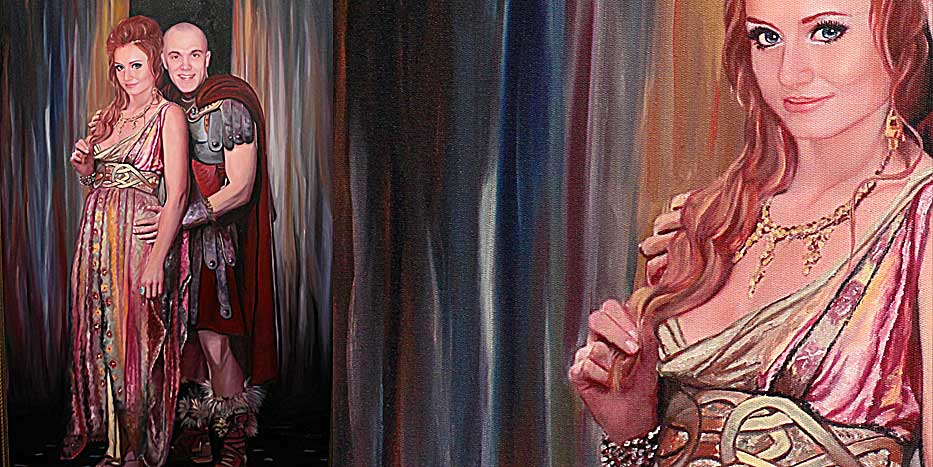
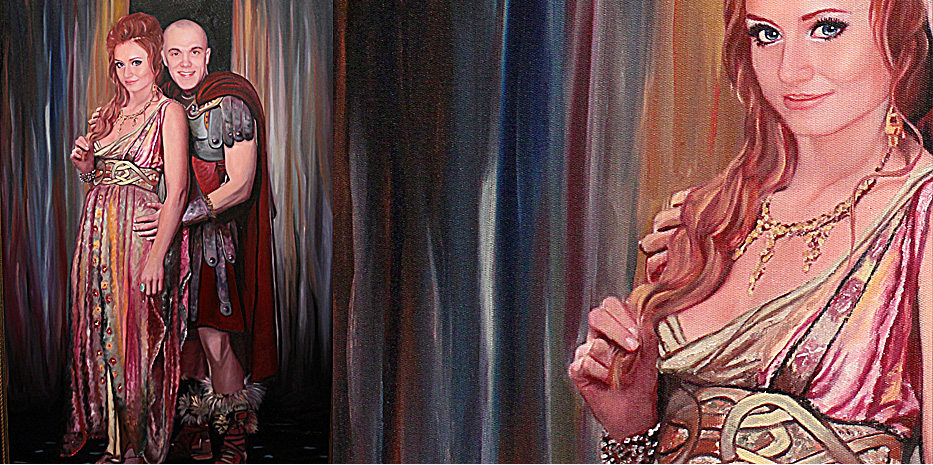
portrethit

diff --git a/wowportret/templates/wowportret/maslo.html b/wowportret/templates/wowportret/maslo.html
@@ -1,39 +1,31 @@
 {% extends 'wowportret/base.html' %}
 {% load staticfiles %}
 {% block content %}
-        <!-- Full Width Image Header with Logo -->
-    <!-- Image backgrounds are set within the full-width-pics.css file. -->
-<!--     <header class="image-bg-fluid-height">
-        <img class="img-responsive img-center" src="{% static 'img/bg/1bg.jpg' %}" alt="">
-    </header> -->
 
-    <!-- Fixed Height Image Aside -->
-    <!-- Image backgrounds are set within the full-width-pics.css file. -->
-    <!-- <aside class="image-bg-fixed-height"></aside> -->
 
-        <div class="container white">
+        <div class="container-fluid white">
         <div class="row">
-            <div class="header" style="background: url({% static 'img/content/maslo/2bg.jpg' %}) no-repeat; min-height: 1000px; ">
-                    <div class="col-xs-12 col-md-8 col-lg-6 col-lg-offset-6 col-md-offset-4">
+            <div class="header" style="background: url({% static 'img/content/maslo/bg.jpg' %}) repeat">
+                <div class="col-md-6 hidden-sm-down">
+                    <img class="sakura" src="{% static 'img/content/maslo/sakura.png' %}" alt="">
+                    <img class="pen" src="{% static 'img/content/maslo/pen.png' %}" alt="">
+                    <img class="foto-maslo" src="{% static 'img/content/maslo/photo.png' %}" alt="">
+                </div>
+                <div class="col-sm-12 col-md-6 text-xs-center">
+                    <!-- <div class="col-xs-12 col-md-8 col-lg-6 col-lg-offset-6 col-md-offset-4"> -->
                         <h1 class="art"><span class="red">Пропись маслом <br /> на холсте</span> </h1>
-                    </div>
-                    <div class="col-xs-12 col-md-7 col-lg-6">
-                        <h2 style="margin-top: 650px; text-align: center;"> <strong> Пропись маслом,техника <br /> «Жекле» </strong> </h2>
-                    </div>
+                    <!-- </div> -->
+                    <!-- <div class="col-xs-12 col-md-7 col-lg-6"> -->
+                        <!-- <h2 style="margin-top: 650px; text-align: center;"> <strong> Пропись маслом,техника <br /> «Жекле» </strong> </h2> -->
+                    <!-- </div> -->
+                </div>
+                <div class="col-md-offset-4 col-md-6 hidden-sm-down">
+                    <img class="maslo-port rt-left" src="{% static 'img/content/maslo/port.jpg' %}" alt="">
+                </div>
+
             </div>
-        <!-- set as background -->
-        <!-- add title + span -->
-        <!-- <aside class="image-bg-fixed-height"></aside> -->
-            <!-- <div class="col-xs-12 col-xs-offset-6"> -->
-                <!-- <h1><span class="orange">Пропись маслом <br /> на холсте</span> </h1> -->
-            <!-- </div> -->
-            <!-- <img class="img-responsive img-full-width" src="{% static 'img/content/maslo/1bg.jpg' %}" alt=""> -->
         </div>
-<!--         <div class="row">
-            <div class="col-xs-6">
-                <h2> <strong> Пропись маслом,техника <br /> «Жекле» </strong> </h2>
-            </div>
-        </div> -->
+        <div class="container white">
         <div class="row">
             <div class="col-sm-12 col-md-12 col-lg-6 text-xs-center">
                 <p class="text-back">
@@ -45,7 +37,7 @@
 
             </p>
             </div>
-            <div class="col-xs-6 col-lg-6 hidden-md-down" style="background: url({% static 'img/content/maslo/grandpa.jpg' %}) no-repeat; min-height: 547px">
+            <div class="col-xs-6 col-lg-6 hidden-md-down" style="background: url({% static 'img/content/maslo/grandpa.jpg' %}) no-repeat; min-height: 547px; position: inherit;">
                 <!-- <img class="img-responsive img-full-width" src="{% static 'img/content/maslo/grandpa.jpg' %}" alt=""> -->
             </div>
         </div>
@@ -69,14 +61,7 @@
             </div>
 
         </div>
-<!--         <div class="row mt">
-            <div class="col-xs-12">
-                <p class="text-xs-center">Еще одно из востребованных стилей </br>
-                                                                    является - "цифровой портрет"   </br>
-                                                                    Художник-дизайнер, по Вашей фотографии рисует портерт на компьюетере при </br>
-                                                                    <button>Заказать</button> </p>
-            </div>
-        </div> -->
+
         <div class="row mt">
             <div class="col-xs-12 text-xs-center mt">
                 <p class="text-back"> <strong>Пример подарка на годовщину свадьбы.  <br />

diff --git a/wowportret/static/css/full-width-pics.css b/wowportret/static/css/full-width-pics.css
@@ -254,12 +254,58 @@ footer {
     left: 0px;
     top: 110px;
 }
+
+.classic {
+    min-height: 995px;
+    background: url('../img/content/classic/left_bg.jpg'), url('../img/content/classic/bg.jpg');
+    background-position: left top, left top;
+    background-repeat: no-repeat, repeat-x;
+}
+
+.classic-port {
+    max-width: 100%;
+    position: absolute;
+    left: 68%;
+    top: 90px;
+}
+
+.sakura {
+    position: absolute;
+}
+.pen {
+    position: absolute;
+    top: 311px;
+}
+
+.maslo-port {
+    position: relative;
+    top:;
+}
+.foto-maslo {
+    position: absolute;
+    top: 497px;
+    left: 0px;
+
+}
 @media(max-width:992px) {
     .port {
         position: relative;
         top: 0px;
         width: 480px;
         margin-top: 32px;
+    }
+
+    .classic-port {
+        max-width: 100%;
+        position: absolute;
+        left: 278px;
+        top: 95px;
+    }
+
+    .maslo-port {
+        max-width: 100%;
+        top: 60px;
+        left: 50px;
     }
 
     .art-girl {
@@ -280,6 +326,11 @@ footer {
         padding-bottom: 25px;
     }
 
+    .classic {
+        background: url('../img/content/classic/bg.jpg');
+        background-position: left top;
+        background-repeat: repeat-x;
+    }
     .section-heading {
         font-size: 2em;
     }

diff --git a/wowportret/templates/wowportret/classic.html b/wowportret/templates/wowportret/classic.html
@@ -2,16 +2,19 @@
 {% load staticfiles %}
 {% block content %}
 
-        <div class="container-fluid white">
+        <div class="container-fluid white mb">
         <div class="row">
-        <div class="header" style="background: url({% static 'img/content/classic/1bg.jpg' %}) no-repeat; min-height: 1000px">
-                <div class="col-xs-12 col-sm-6 col-sm-offset-6">
+        <div class="header classic">
+            <div class="col-xs-12 col-md-6 col-md-offset-6">
                 <h1 class="art"><span class="blue">Классический портрет с заменой фона</span> </h1>
-                </div>
+            </div>
+            <div class="col-md-7 col-lg-6 hidden-sm-down">
+                <img class="mt rt-right classic-port" src="{% static 'img/content/classic/port.jpg' %}" alt="">
+            </div>
 
         </div>
         </div>
-        <div class="container white">
+        <div class="container white mt">
 <!--         <div class="row">
             <div class="col-xs-12 col-xs-offset-6">
                 <h1><span class="blue">Классический портрет <br /> с заменой фона</span> </h1>

diff --git a/wowportret/templates/wowportret/index.html b/wowportret/templates/wowportret/index.html
@@ -5,10 +5,10 @@
         <div class="row">
             <div class="header" style="background: url({% static 'img/content/main/wall.jpg' %}) repeat; min-height: 600px; ">
 
-                    <div class="col-md-6 hidden-sm-down">
-                        <img class="mt" src="{% static 'img/content/main/test.png' %}" alt="">
+                    <div class="col-md-5 hidden-sm-down">
+                        <img class="mt" src="{% static 'img/content/main/super_guy.png' %}" alt="">
                     </div>
-                    <div class="col-xs-12 col-sm-12 col-md-6">
+                    <div class="col-xs-12 col-sm-12 col-md-7">
                         <div class="main">
                         <h1 style="margin-top: 125px">Лучший подарок, на любой праздник - Картина</h1>
                         </div>

diff --git a/wowportret/templates/wowportret/base.html b/wowportret/templates/wowportret/base.html
@@ -29,10 +29,10 @@
     </head>
     <body>
         <nav class="navbar navbar-fixed-top navbar-light bg-faded">
-          <button class="navbar-toggler hidden-sm-up" type="button" data-toggle="collapse" data-target="#exCollapsingNavbar2">
+          <button class="navbar-toggler hidden-md-up" type="button" data-toggle="collapse" data-target="#exCollapsingNavbar2">
             &#9776;
           </button>
-          <div class="collapse navbar-toggleable-xs" id="exCollapsingNavbar2">
+          <div class="collapse navbar-toggleable-sm" id="exCollapsingNavbar2">
             <a class="navbar-brand" href="/glavnaya/">Wowportret.ru</a>
             <ul class="nav navbar-nav">
               <li class="nav-item active">

diff --git a/wowportret/templates/wowportret/portret.html b/wowportret/templates/wowportret/portret.html
@@ -11,7 +11,7 @@
     <!-- Image backgrounds are set within the full-width-pics.css file. -->
     <!-- <aside class="image-bg-fixed-height"></aside> -->
 
-        <div class="container-fluid white mt" style="background: url({% static 'img/content/portret/test.jpg' %}) repeat;">
+        <div class="container-fluid white mt" style="background: url({% static 'img/content/portret/bg.jpg' %}) repeat;">
         <div class="header">
                 <div class="row">
                     <div class="col-xs-10 col-xs-offset-1 col-sm-8 col-md-6 col-sm-offset-2 col-md-offset-3 col-xl-4 col-xl-offset-3">

diff --git a/wowportret/templates/wowportret/pmaslo.html b/wowportret/templates/wowportret/pmaslo.html
@@ -5,7 +5,7 @@
 
         <div class="container-fluid white">
         <div class="row">
-            <div class="header" style="background: url({% static 'img/content/pmaslo/test.jpg' %});">
+            <div class="header" style="background: url({% static 'img/content/pmaslo/bg.jpg' %});">
                 <!-- <div class="row"> -->
                 <div class="col-xs-12 col-md-6 col-md-offset-4 text-xs-center">
                     <h1 class="art"><span class="red">Имитация маслянной живописи</span> </h1>
